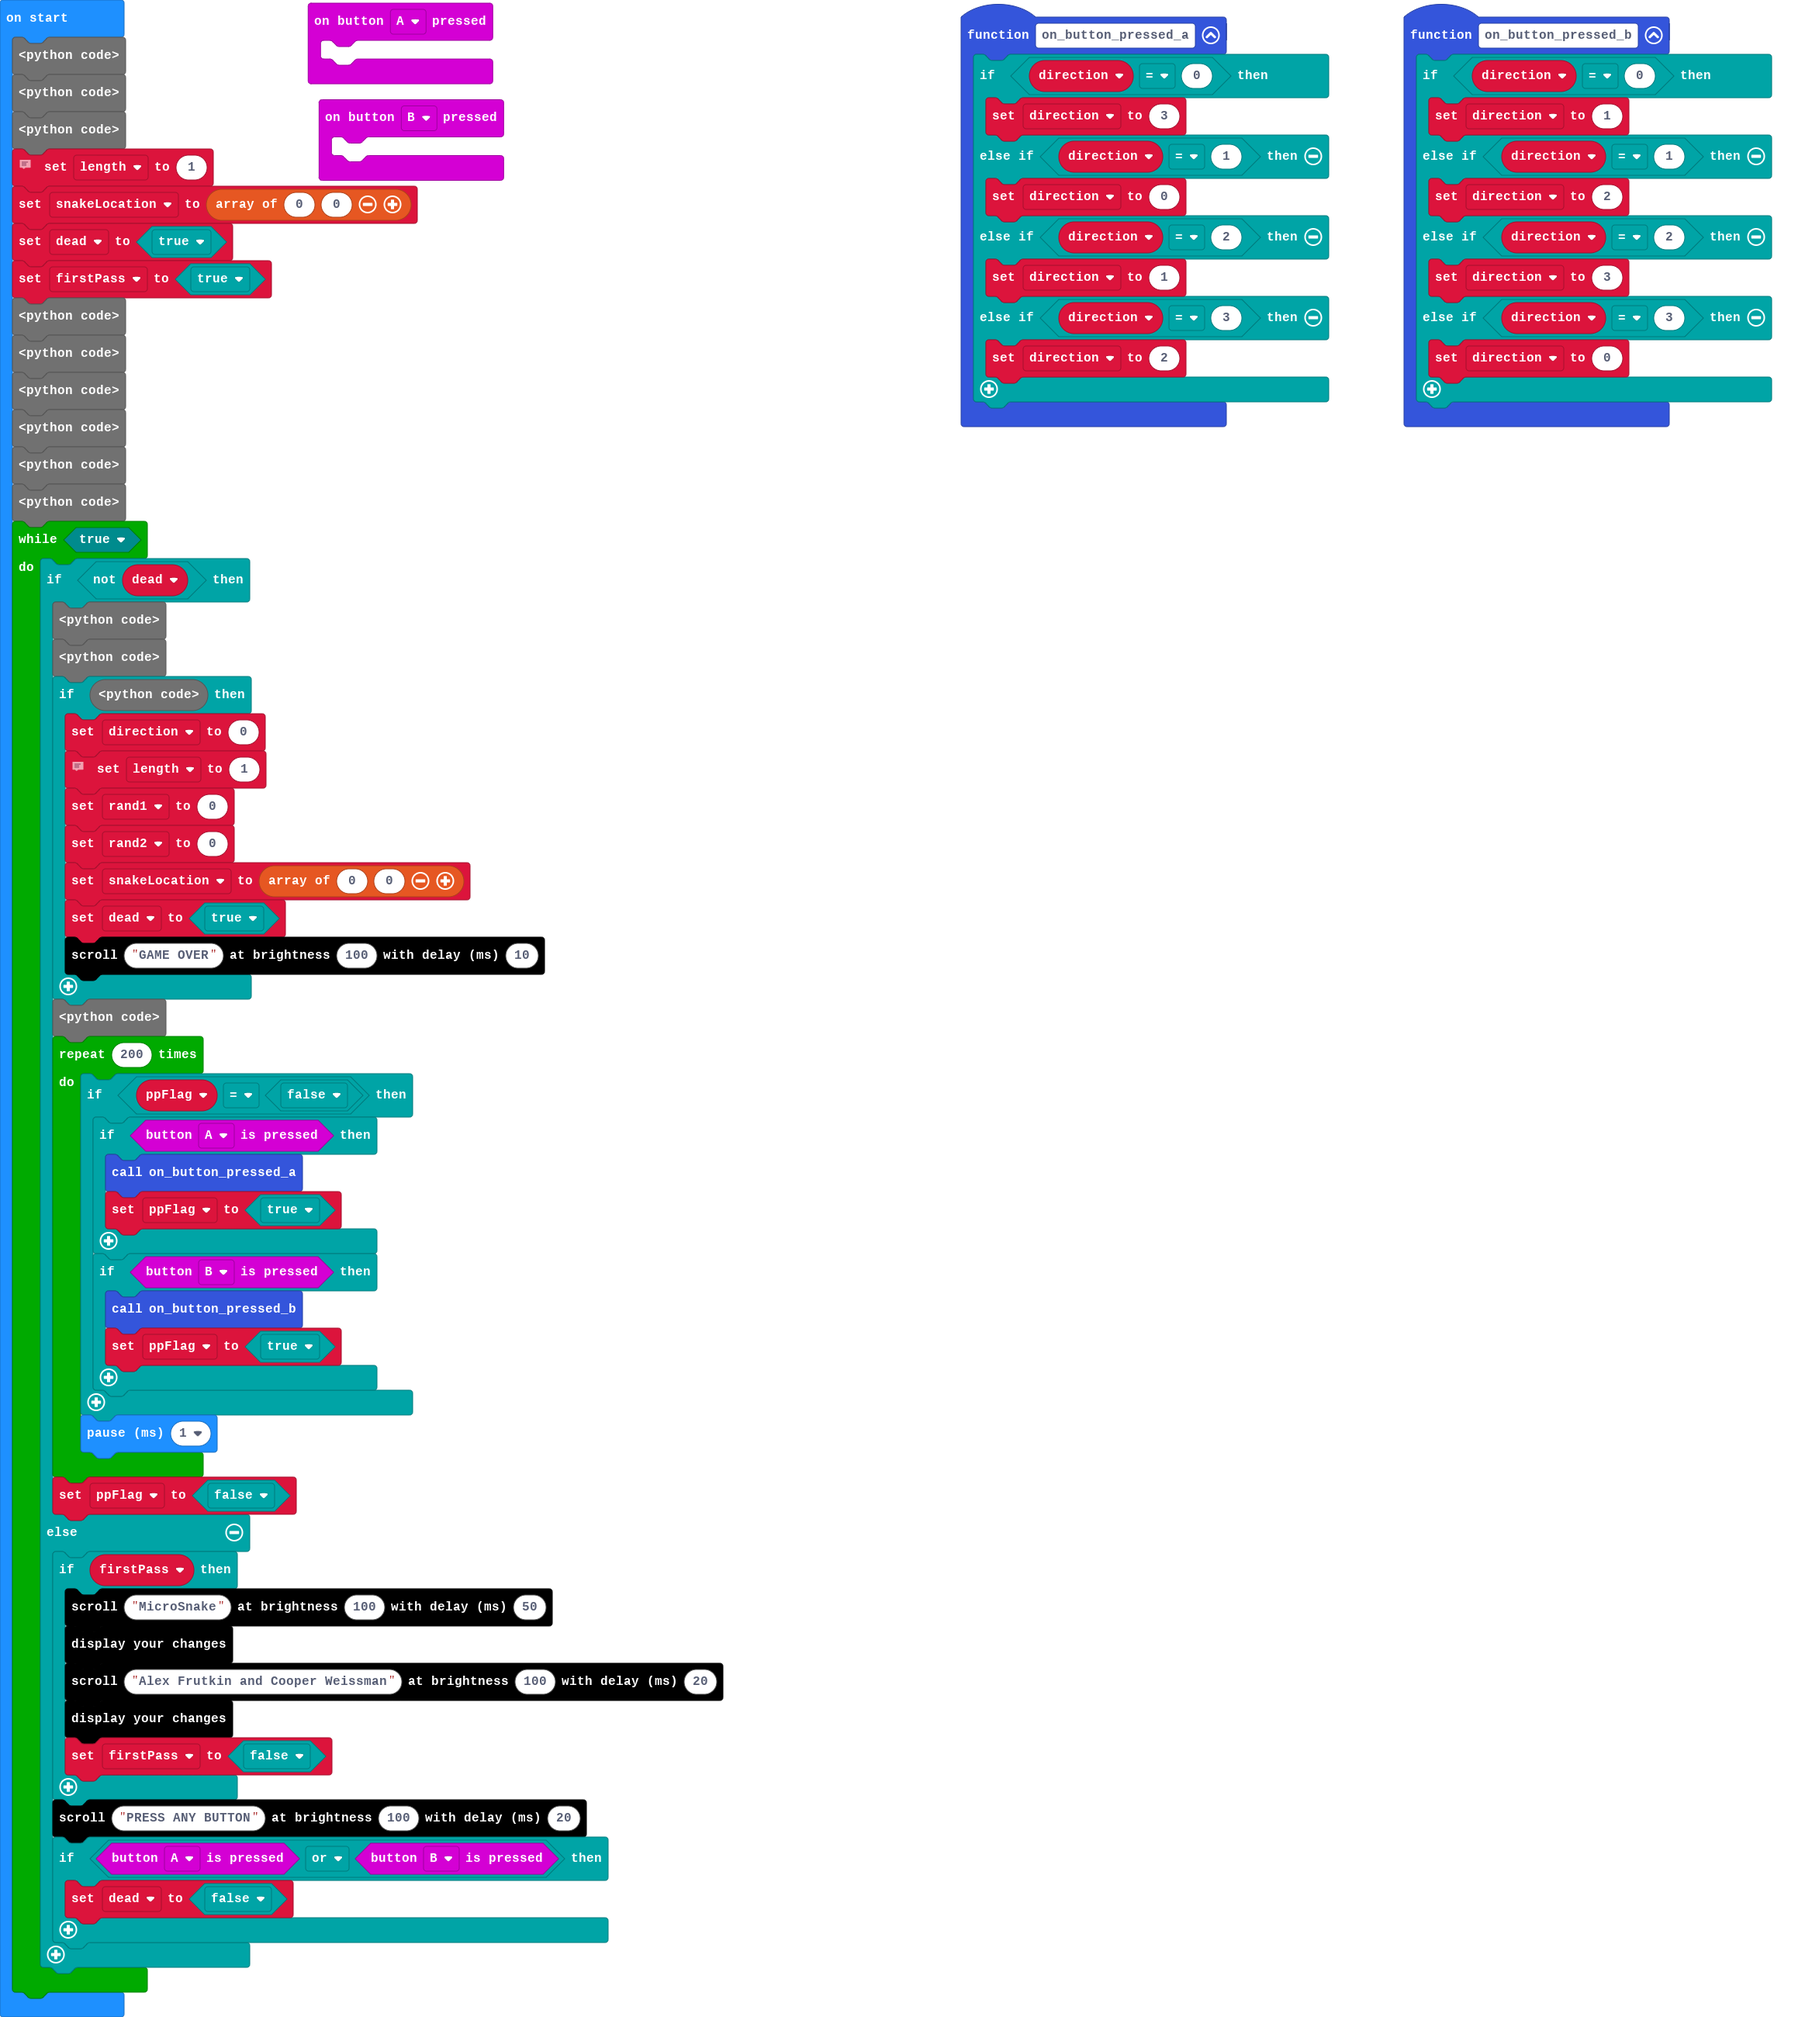
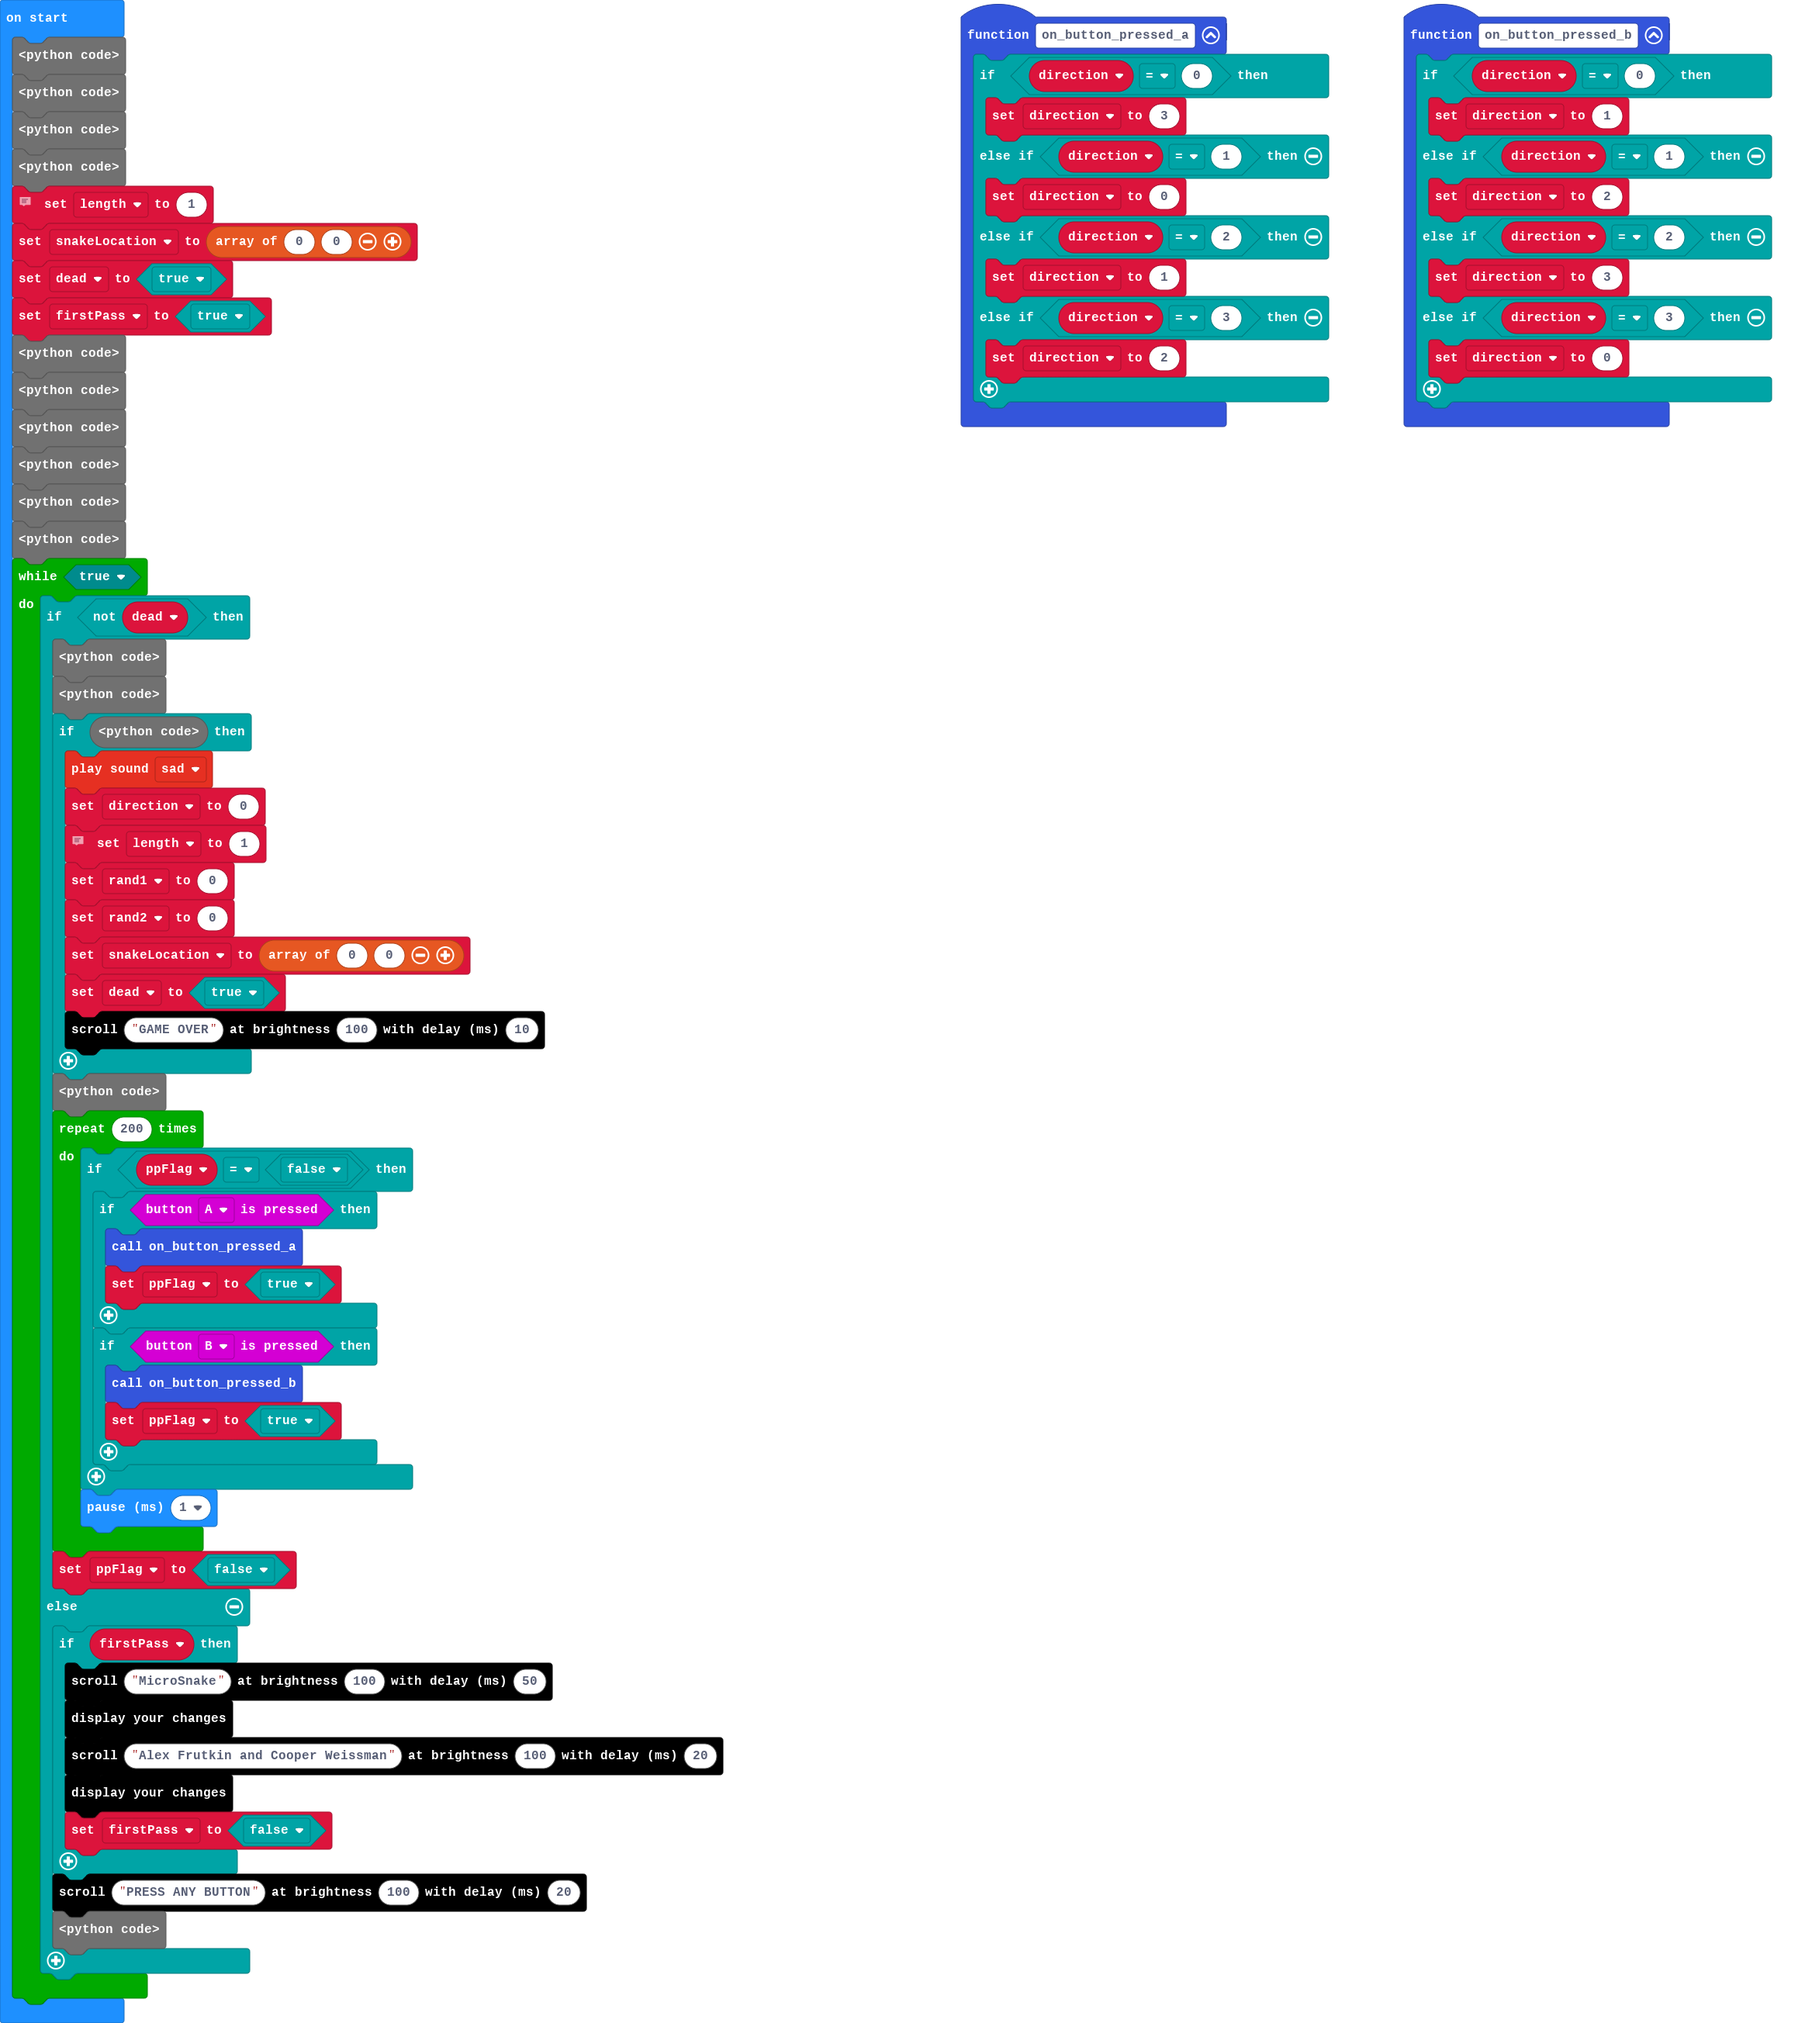
death sound

diff --git a/main.ts b/main.ts
@@ -28,9 +28,9 @@ function on_button_pressed_b() {
 }
 
 let ppFlag = false
-let rand2 = 0
-let rand1 = 0
 let direction = 0
+let rand1 = 0
+let rand2 = 0
 //  cooper
 let length = 1
 let snakeLocation = [0, 0]
@@ -83,9 +83,9 @@ function food(snakeLocation: number[]) {
             rand2 = randint(0, 16)
         }
         
-        for (let x = 0; x < snakeLocation.length / 2; x++) {
-            if (rand2 == snakeLocation[x * 2]) {
-                if (rand1 == snakeLocation[x * 2 + 1]) {
+        for (let x2 = 0; x2 < snakeLocation.length / 2; x2++) {
+            if (rand2 == snakeLocation[x2 * 2]) {
+                if (rand1 == snakeLocation[x2 * 2 + 1]) {
                     rand1 = randint(0, 6)
                     rand2 = randint(0, 16)
                     overlap = true
@@ -107,9 +107,9 @@ function checkContact(snakeLocation: number[]): boolean {
     let contact = false
     let frontX = snakeLocation[snakeLocation.length - 2]
     let frontY = snakeLocation[snakeLocation.length - 1]
-    for (let x2 = 0; x2 < snakeLocation.length / 2 - 1; x2++) {
-        if (frontX == snakeLocation[x2 * 2]) {
-            if (frontY == snakeLocation[x2 * 2 + 1]) {
+    for (let x22 = 0; x22 < snakeLocation.length / 2 - 1; x22++) {
+        if (frontX == snakeLocation[x22 * 2]) {
+            if (frontY == snakeLocation[x22 * 2 + 1]) {
                 contact = true
             }
             
@@ -137,6 +137,7 @@ while (true) {
         food(snakeLocation)
         snakeLocation = moveSnake(snakeLocation, direction, length)
         if (checkDeath(snakeLocation)) {
+            soundExpression.sad.play()
             direction = 0
             //  cooper
             length = 1
@@ -175,13 +176,15 @@ while (true) {
         }
         
         scrollbit.scrollText("PRESS ANY BUTTON", 100, 20)
-        for (pp = 0; pp < 1000; pp++) {
+        pp = 0
+        while (pp < 1000) {
             if (input.buttonIsPressed(Button.A) || input.buttonIsPressed(Button.B)) {
                 dead = false
                 pp = 1000
             }
             
             basic.pause(100)
+            pp += 1
         }
     }
     

diff --git a/main.py b/main.py
@@ -8,7 +8,6 @@ def on_button_pressed_a():
         direction = 1
     elif direction == 3:
         direction = 2
-
 def on_button_pressed_b():
     global direction
     if direction == 0:
@@ -20,9 +19,9 @@ def on_button_pressed_b():
     elif direction == 3:
         direction = 0
 ppFlag = False
-rand2 = 0
-rand1 = 0
 direction = 0
+rand1 = 0
+rand2 = 0
 # cooper
 length = 1
 snakeLocation = [0, 0]
@@ -60,17 +59,17 @@ def moveSnake(snakeLocation: List[number], direction: number, length: number):
     return snakeLocation
 def food(snakeLocation: List[number]):
     global length, rand1, rand2
-    overlap=False
+    overlap = False
     while not overlap:
         if snakeLocation[len(snakeLocation) - 2] == rand2 and snakeLocation[len(snakeLocation) - 1] == rand1:
             length = length + 1
             rand1 = randint(0, 6)
             rand2 = randint(0, 16)
-        for x in range((len(snakeLocation) / 2)):
-            if rand2 == snakeLocation[x*2]:
-                if rand1 == snakeLocation[(x*2)+1]:
-                    rand1 = randint(0,6)
-                    rand2 = randint(0,16)
+        for x2 in range(len(snakeLocation) / 2):
+            if rand2 == snakeLocation[x2 * 2]:
+                if rand1 == snakeLocation[x2 * 2 + 1]:
+                    rand1 = randint(0, 6)
+                    rand2 = randint(0, 16)
                     overlap = True
                 else:
                     overlap = True
@@ -82,9 +81,9 @@ def checkContact(snakeLocation: List[number]):
     contact = False
     frontX = snakeLocation[len(snakeLocation) - 2]
     frontY = snakeLocation[len(snakeLocation) - 1]
-    for x2 in range(len(snakeLocation) / 2 - 1):
-        if frontX == snakeLocation[x2 * 2]:
-            if frontY == snakeLocation[x2 * 2 + 1]:
+    for x22 in range(len(snakeLocation) / 2 - 1):
+        if frontX == snakeLocation[x22 * 2]:
+            if frontY == snakeLocation[x22 * 2 + 1]:
                 contact = True
     return contact
 def checkDeath(snakeLocation: List[number]):
@@ -99,6 +98,7 @@ while True:
         food(snakeLocation)
         snakeLocation = moveSnake(snakeLocation, direction, length)
         if checkDeath(snakeLocation):
+            soundExpression.sad.play()
             direction = 0
             # cooper
             length = 1
@@ -126,8 +126,10 @@ while True:
             scrollbit.show()
             firstPass = False
         scrollbit.scroll_text("PRESS ANY BUTTON", 100, 20)
-        for pp in range(1000):
+        pp = 0
+        while pp < 1000:
             if input.button_is_pressed(Button.A) or input.button_is_pressed(Button.B):
                 dead = False
                 pp = 1000
             basic.pause(100)
+            pp += 1
